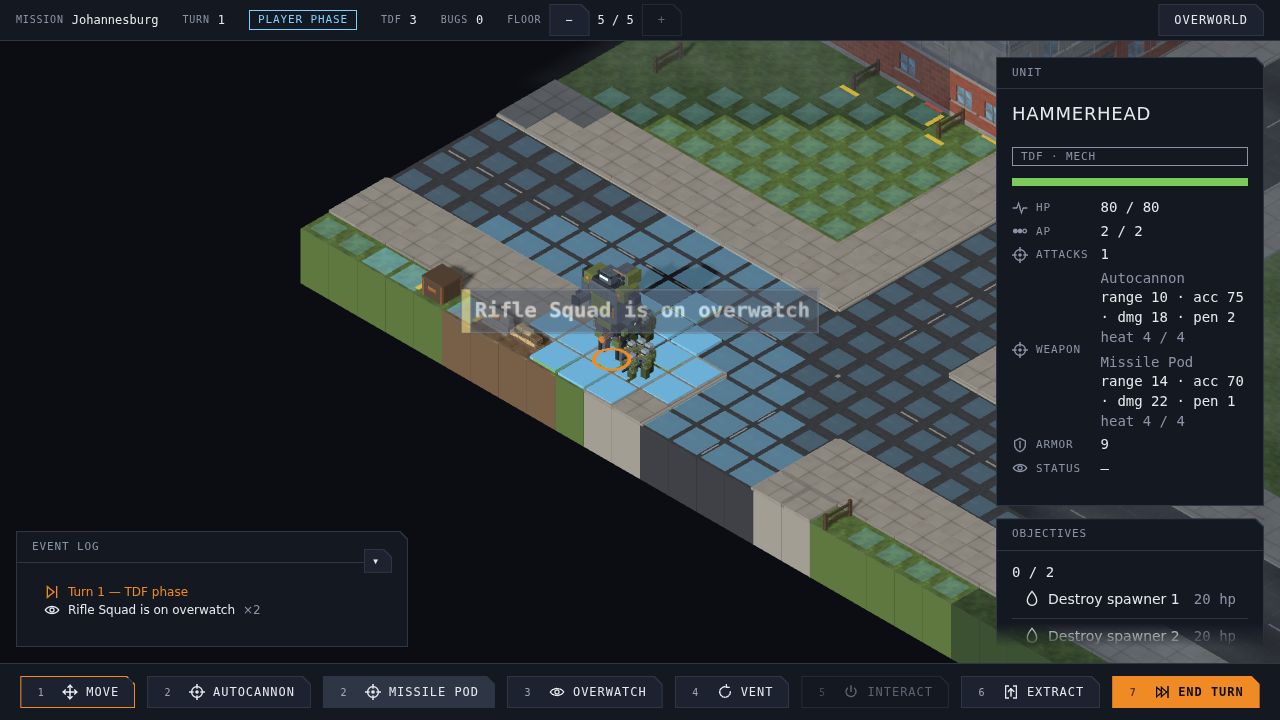
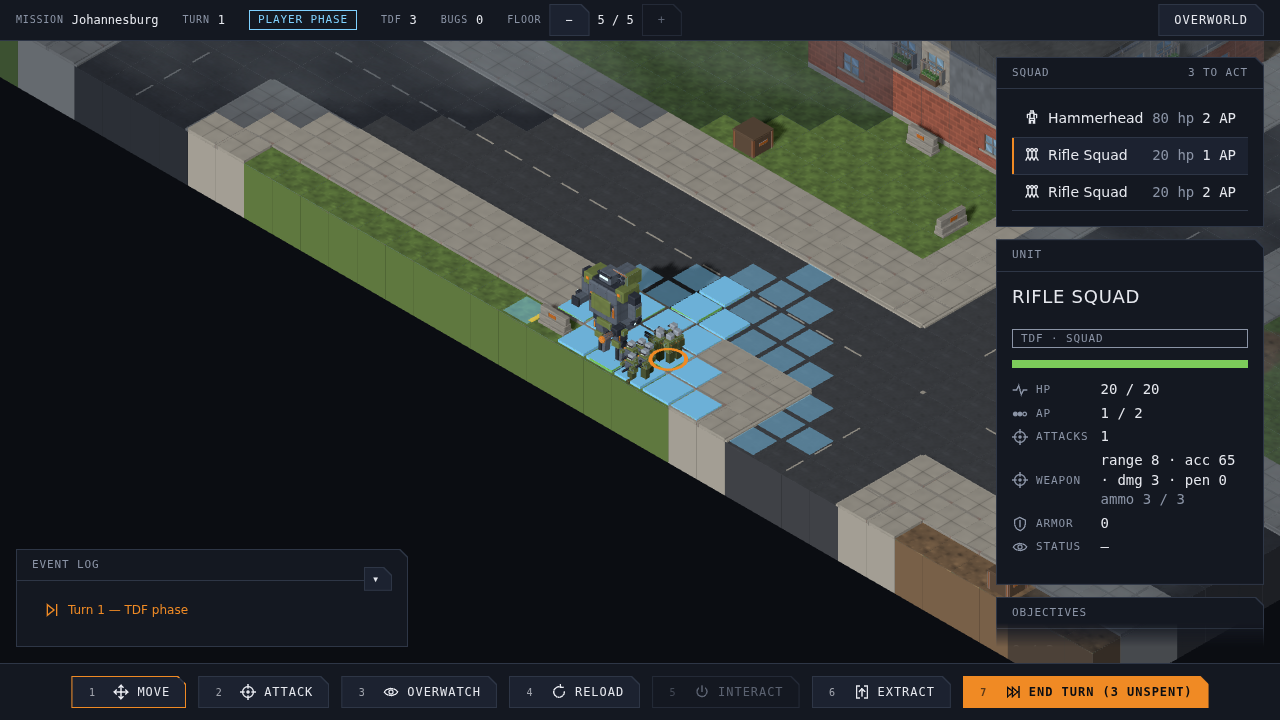
test(e2e): make the indicator capture prove something (#1029)
I looked at the frames this spec commits, and **three of the four were
documenting nothing.** Found by opening them, not by reading the spec —
it passed, because it asserted nothing about what it had captured.

**`-vent` showed no indicator at all.** It pressed Vent on a mech at
heat 4/4; the rules refuse that, so no event, no chip. The frame's status
line reads `Unit "unit-1" is already fully loaded` — it was a picture of
a refusal, filed as evidence of the feature. #1062 makes that button
correctly unavailable, so it was a picture of that defect too. Replaced
with the mech on overwatch, which it can actually do on turn 1.

**`-third` was next**, once an assertion existed to catch it — and the
reason is a trap worth naming: the log **collapses identical adjacent
lines into `×N`**, so two Rifle Squads going on overwatch produce one
row. Counting rows reported the second as "nothing happened". It counts
`data-repeat` now, which is what the log actually records.

**The control never moved anything.** It selected a unit and called that
a move, so the control for "movement is the exception" exercised no
movement — and by the time it ran, all three units had spent their
action points, so it could not have moved one. It now runs **first**, on
a board where nothing has acted, does a real right-click move, and
asserts the unit's screen position changed before asserting the log did
not grow. Running first also removes a subtler lie: a notice dwells for
[…]

diff --git a/e2e/action-indicator-screenshot.spec.ts b/e2e/action-indicator-screenshot.spec.ts
@@ -1,6 +1,6 @@
 import { expect, test } from "@playwright/test";
 
-import { drawnFrame } from "./capture-frame.helper";
+import { drawnFrame, neighbourTileOf } from "./capture-frame.helper";
 import { launchMission, settleForShot } from "./mission-capture.helper";
 import type { TacticalTestHooks } from "../src/ui/model/tactical-intent";
 
@@ -29,7 +29,38 @@ test("captures indicators for several actions, and a move that shows none", asyn
   await settleForShot(page);
 
   const viewport = page.locator("#tactical-viewport");
+  /**
+   * How many events the log has recorded — **not** how many rows it
+   * shows. The log collapses identical adjacent lines into `×N`, so two
+   * Rifle Squads going on overwatch in succession produce one row, and
+   * counting rows reports the second one as "nothing happened". That is
+   * a real trap and it caught this spec: with the row count, the third
+   * frame failed its own check for a unit that had acted perfectly well.
+   */
+  const logged = (): Promise<number> =>
+    page.evaluate(() =>
+      [...document.querySelectorAll('[data-role="event-log-list"] li')].reduce(
+        (total, row) =>
+          total + Number((row as HTMLElement).dataset.repeat ?? "1"),
+        0,
+      ),
+    );
+
+  /**
+   * Performs an action and refuses to continue unless the rules actually
+   * logged it.
+   *
+   * The indicator is drawn in the canvas, so no selector can assert it
+   * directly — but it mirrors the log by construction (`describeEvent`
+   * produces both), so "the log grew" is the precondition for a chip
+   * existing. Without this check the spec screenshots whatever is on
+   * screen, which is how the first version of it committed a frame named
+   * `-vent` that showed **no indicator at all**: the mech starts at
+   * heat 4/4, the rules refused the vent, and the capture passed because
+   * nothing asked whether anything had happened.
+   */
   const act = async (unitId: string, action: string): Promise<void> => {
+    const before = await logged();
     await page.evaluate(
       (id) => (globalThis as HookGlobal).__tutTactical__?.selectUnit(id),
       unitId,
@@ -39,38 +70,75 @@ test("captures indicators for several actions, and a move that shows none", asyn
       .first()
       .click({ force: true });
     await drawnFrame(page);
+    expect(
+      await logged(),
+      `${action} on ${unitId} logged nothing, so there is no indicator to capture`,
+    ).toBeGreaterThan(before);
   };
 
-  // Vent: a logged action, indicated above the unit that did it.
-  await act("unit-1", "reload");
+  // ===========================================
+  // The control first, on a board where nothing has acted
+  // ===========================================
+
+  // A real move, with no indicator for it — and it runs **first** for
+  // two reasons the previous version got wrong.
+  //
+  // It only *selected* a unit and called that a move, so the control for
+  // "movement is the exception" never moved anything. And by the time it
+  // ran, all three units had spent their action points on overwatch, so
+  // it could not have moved one even if it had tried.
+  //
+  // Running it here also means no earlier chip can still be on screen.
+  // A notice dwells for a couple of seconds, so a control taken after
+  // the others shows the *previous* action's chip under a caption saying
+  // there is none.
+  const restBefore = await logged();
+  const from = await page.evaluate(() =>
+    (globalThis as HookGlobal).__tutTactical__?.unitScreenPosition("unit-2"),
+  );
+  const spot = await neighbourTileOf(page, "unit-2");
+  expect(spot, "no neighbouring tile on screen to move onto").toBeDefined();
+  await page.evaluate(() =>
+    (globalThis as HookGlobal).__tutTactical__?.selectUnit("unit-2"),
+  );
+  await page.mouse.click(spot?.x ?? 0, spot?.y ?? 0, { button: "right" });
+  await drawnFrame(page);
+  const to = await page.evaluate(() =>
+    (globalThis as HookGlobal).__tutTactical__?.unitScreenPosition("unit-2"),
+  );
+  // It really moved, so this is a control over movement rather than over
+  // a click that did nothing.
+  expect(to).not.toEqual(from);
+  // ...and movement reaches neither the log (#1028) nor the unit (#1029).
+  expect(await logged()).toBe(restBefore);
   await viewport.screenshot({
-    path: "docs/design/ui-action-indicator-vent.png",
+    path: "docs/design/ui-action-indicator-move-control.png",
   });
 
-  // Overwatch on a second unit, while the first still stands: two units
-  // acting in succession, each above its own.
+  // ===========================================
+  // Then the actions that do show
+  // ===========================================
+
+  // A mech acting, indicated above it. This was a vent until the frame
+  // showed that a vent is not something a mech can do on turn 1 — every
+  // pool starts full, so the rules refuse it. #1062 makes the button
+  // correctly unavailable in that state, which means the old frame was
+  // evidence of that defect rather than of this feature.
+  await act("unit-1", "overwatch");
+  await viewport.screenshot({
+    path: "docs/design/ui-action-indicator-mech.png",
+  });
+
+  // A second unit, while the first still stands: two units acting in
+  // succession, each above its own.
   await act("unit-2", "overwatch");
   await viewport.screenshot({
     path: "docs/design/ui-action-indicator-succession.png",
   });
 
-  // Overwatch on a third: a different action type again.
+  // And a third.
   await act("unit-3", "overwatch");
   await viewport.screenshot({
     path: "docs/design/ui-action-indicator-third.png",
   });
-
-  // The control: a move shows nothing above the unit.
-  const before = await page.evaluate(
-    () => document.querySelectorAll('[data-role="event-log-list"] li').length,
-  );
-  await page.evaluate(() => {
-    const hooks = (globalThis as HookGlobal).__tutTactical__;
-    hooks?.selectUnit("unit-1");
-  });
-  await drawnFrame(page);
-  await viewport.screenshot({
-    path: "docs/design/ui-action-indicator-move-control.png",
-  });
-  expect(before).toBeGreaterThan(0);
 });

diff --git a/e2e/capture-frame.helper.ts b/e2e/capture-frame.helper.ts
@@ -104,3 +104,79 @@ export async function tapCameraKey(page: Page, key: string): Promise<void> {
   }, key);
   await drawnFrame(page);
 }
+
+/**
+ * A neighbouring tile's client-pixel position, for a real pointer click
+ * beside a unit.
+ *
+ * The hooks say where a *tile* is drawn, not which tile a unit stands
+ * on, so the unit's tile is found as the one drawn nearest its feet and
+ * the answer is that tile's neighbour. Searched rather than offset: the
+ * first version of this guessed that "one tile away" was 24-90 px and
+ * found nothing, which measured the guess and not the map.
+ *
+ * @param page - The page driving a live mission.
+ * @param unitId - The unit to find a neighbouring tile for.
+ * @returns Where to click, or undefined if no neighbour is on screen.
+ */
+export async function neighbourTileOf(
+  page: Page,
+  unitId: string,
+): Promise<{ x: number; y: number } | undefined> {
+  return page.evaluate((id) => {
+    const hooks = (
+      globalThis as {
+        __tutTactical__?: {
+          unitScreenPosition(
+            unitId: string,
+          ): { x: number; y: number } | undefined;
+          tileScreenPosition(tile: {
+            x: number;
+            y: number;
+            z: number;
+          }): { x: number; y: number } | undefined;
+        };
+      }
+    ).__tutTactical__;
+    const here = hooks?.unitScreenPosition(id);
+    if (!hooks || !here) {
+      return undefined;
+    }
+    let mine: { x: number; y: number; z: number } | undefined;
+    let best = Infinity;
+    for (let x = 0; x < 96; x++) {
+      for (let z = 0; z < 96; z++) {
+        for (let y = 0; y < 4; y++) {
+          const at = hooks.tileScreenPosition({ x, y, z });
+          if (!at) {
+            continue;
+          }
+          const d = Math.hypot(at.x - here.x, at.y - here.y);
+          if (d < best) {
+            best = d;
+            mine = { x, y, z };
+          }
+        }
+      }
+    }
+    if (!mine) {
+      return undefined;
+    }
+    for (const [dx, dz] of [
+      [1, 0],
+      [-1, 0],
+      [0, 1],
+      [0, -1],
+    ]) {
+      const at = hooks.tileScreenPosition({
+        x: mine.x + (dx ?? 0),
+        y: mine.y,
+        z: mine.z + (dz ?? 0),
+      });
+      if (at) {
+        return { x: at.x, y: at.y };
+      }
+    }
+    return undefined;
+  }, unitId);
+}
